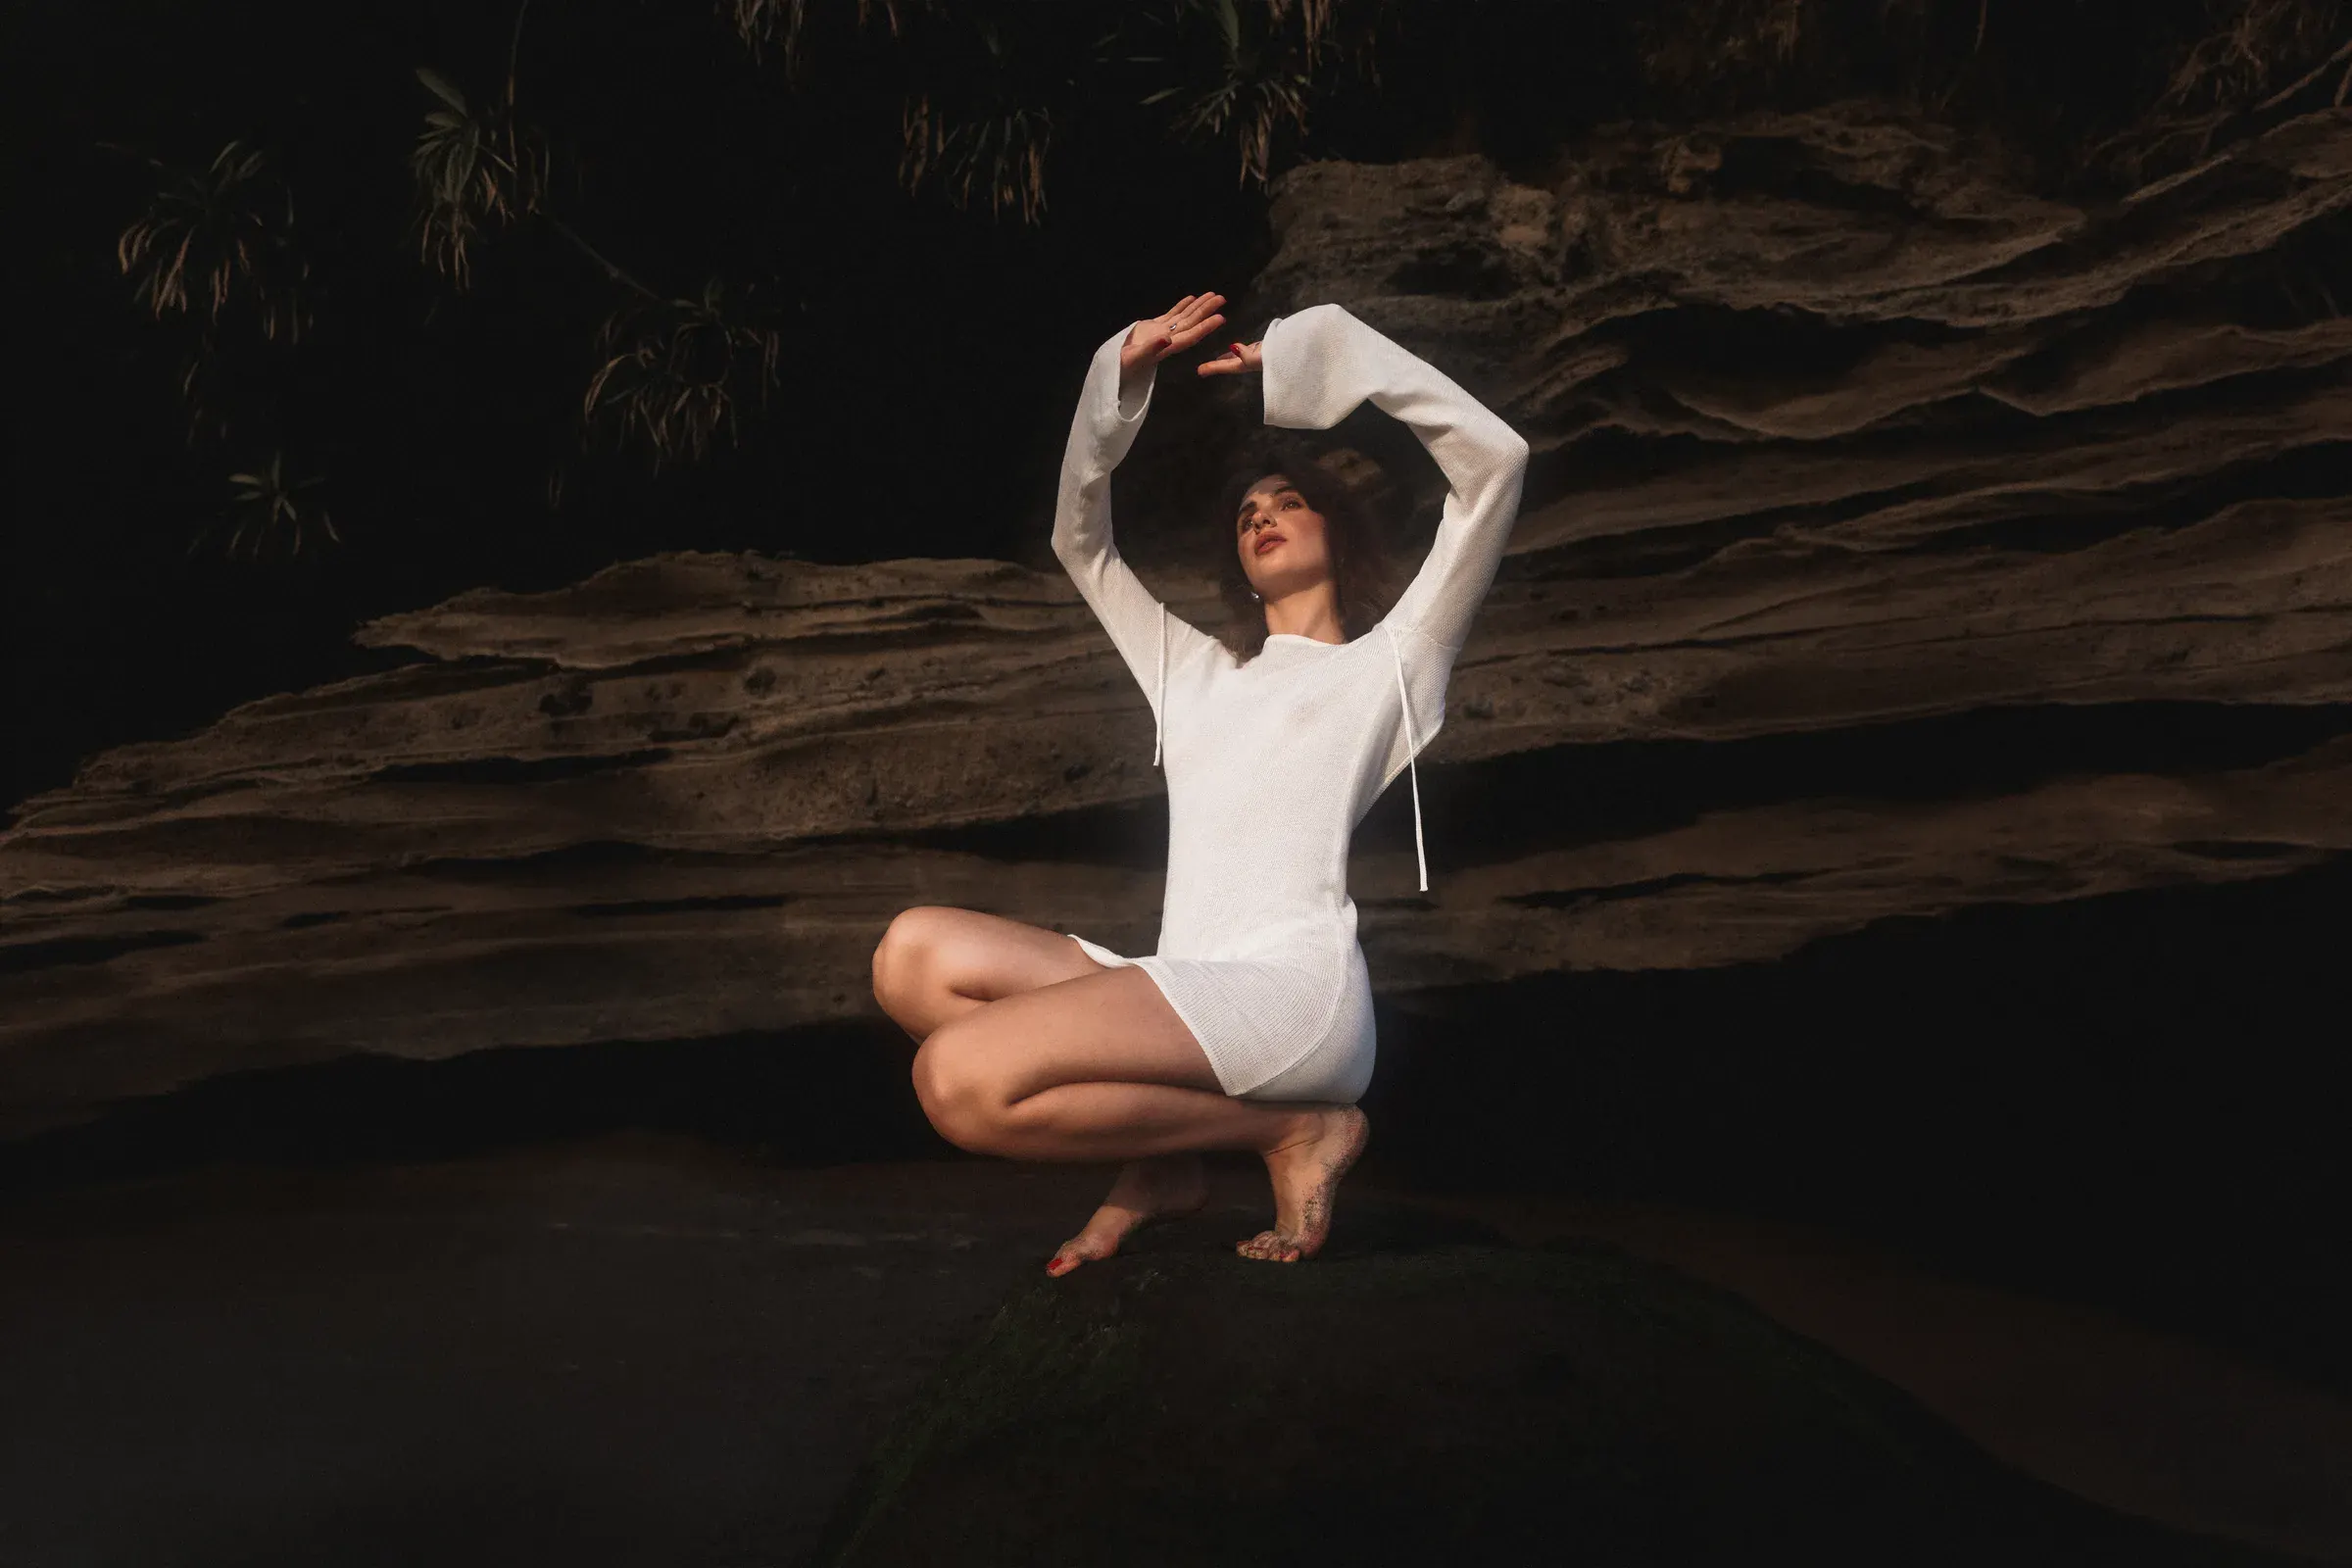
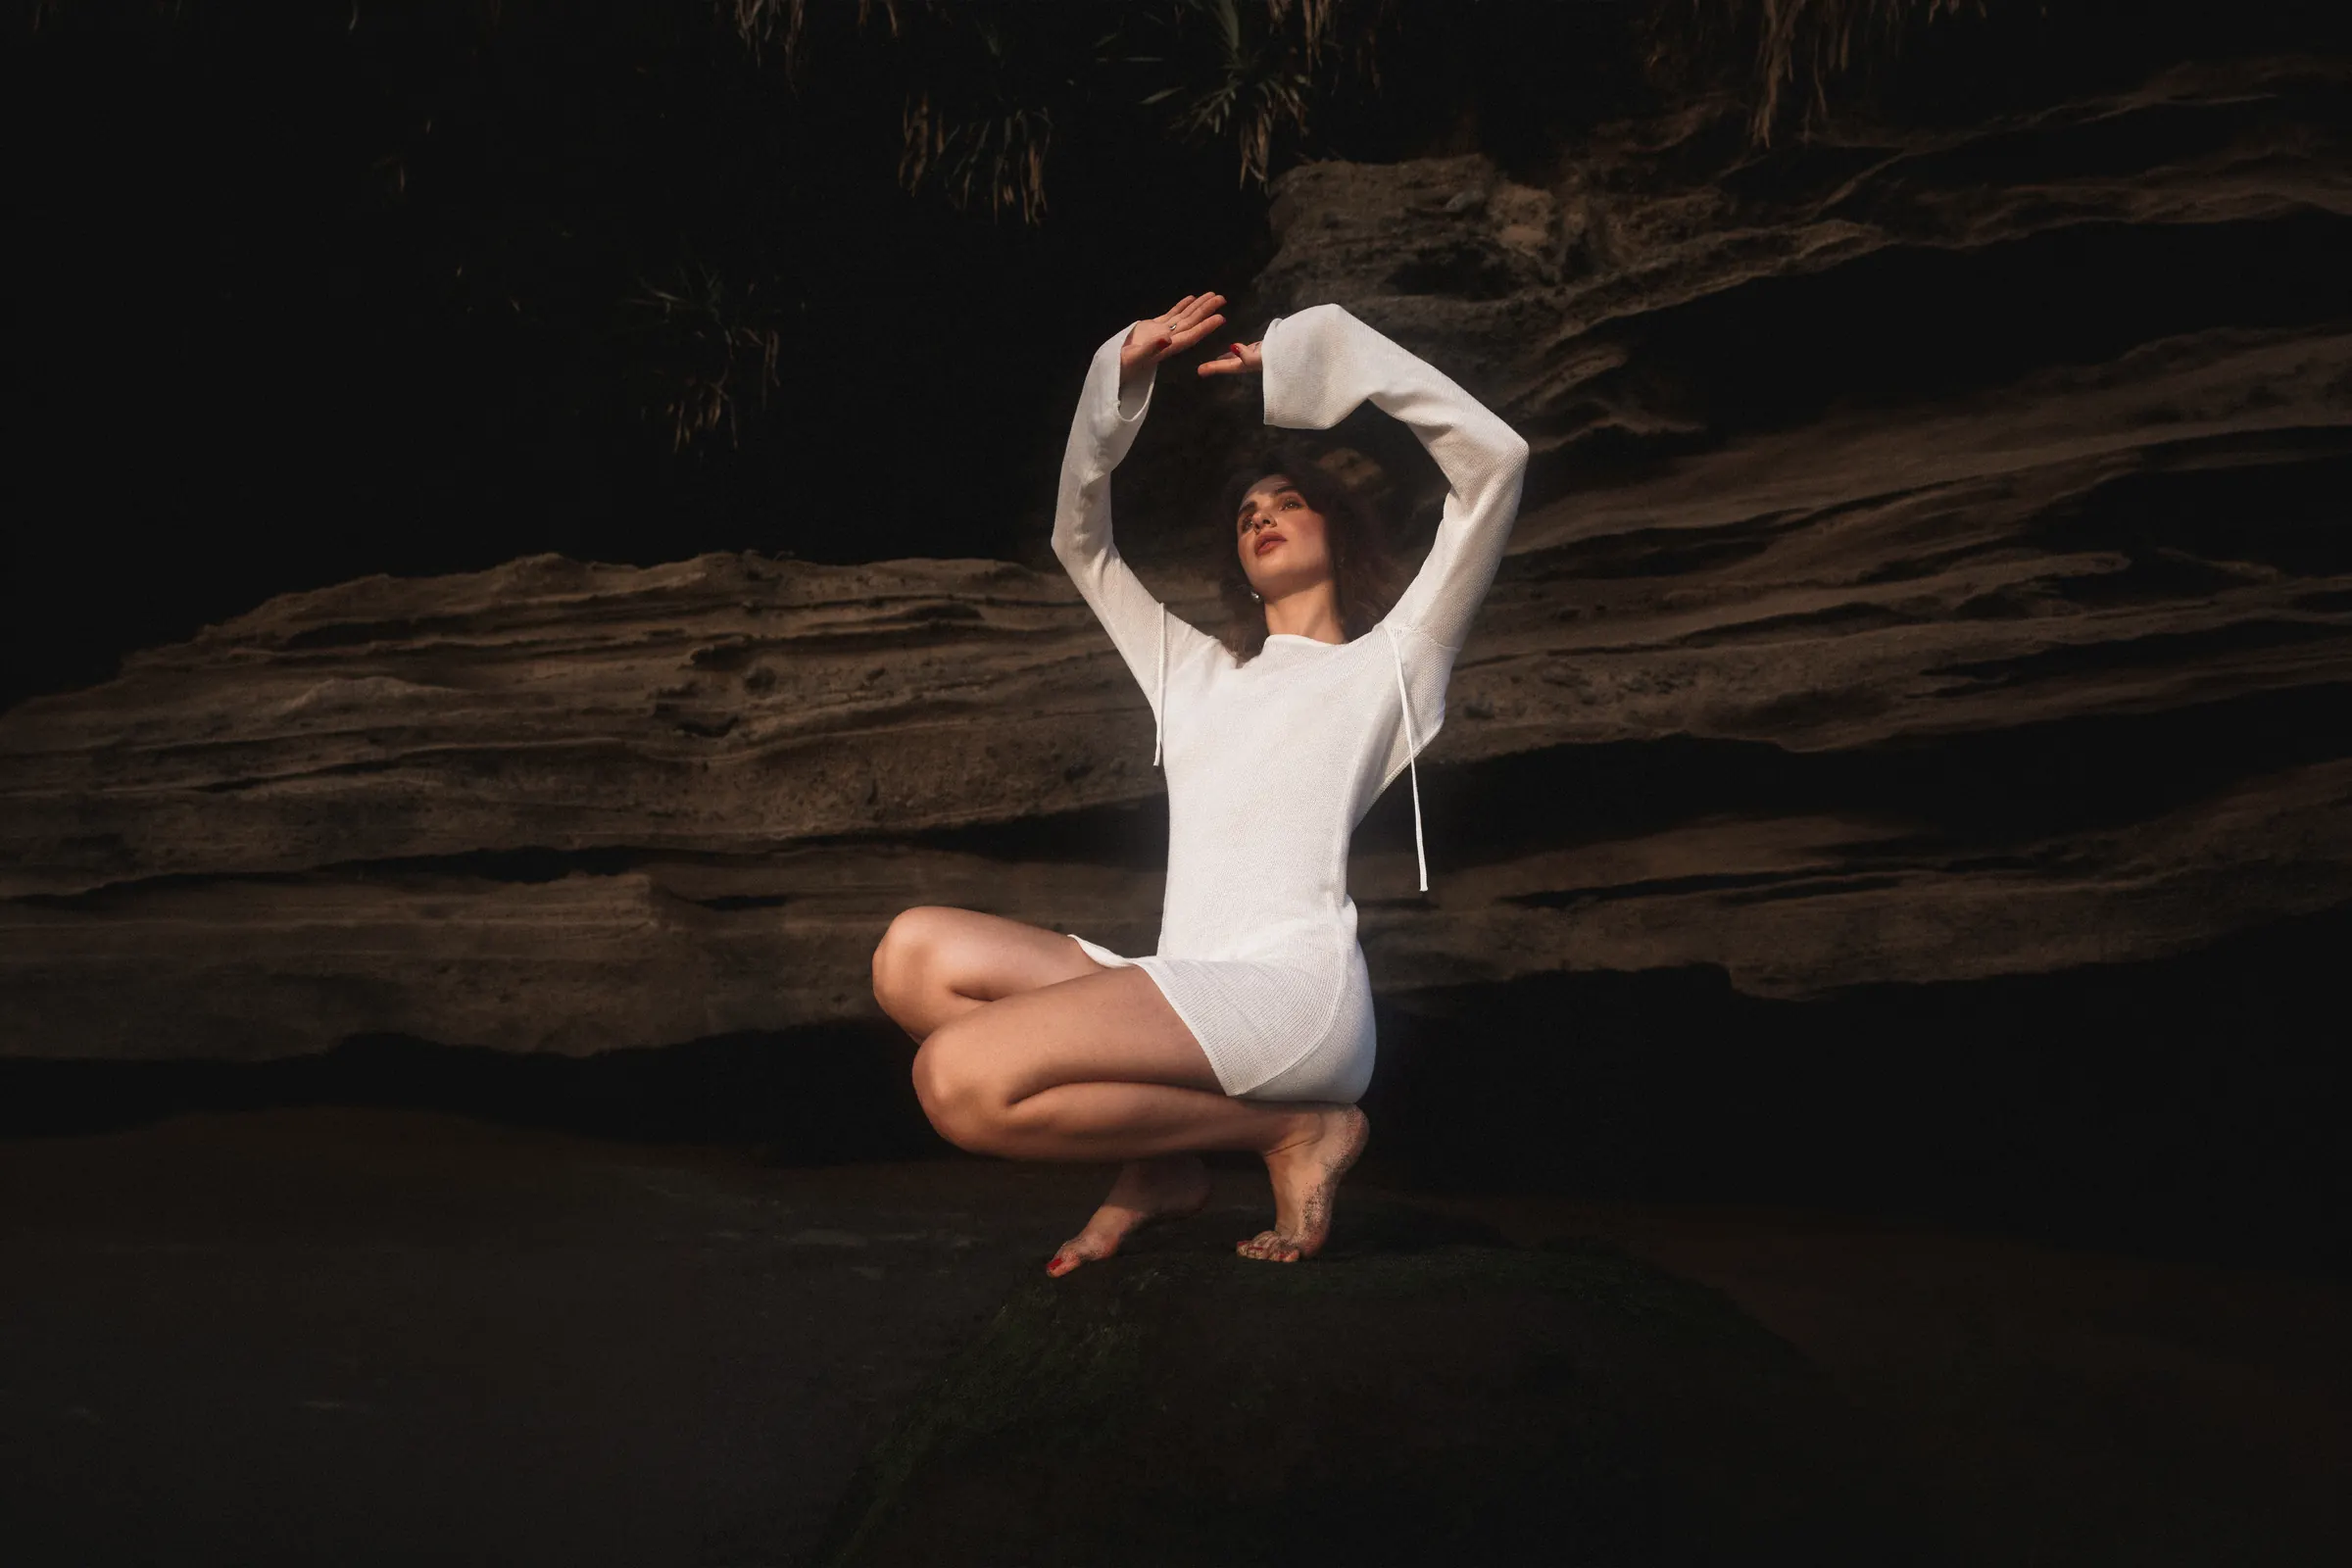
New quote photo, remove image gradients, match contacts background, update prices
- "Кожне слово": new photo version, no gradients
- Trainings and contacts photos: no gradient masks
- Contacts: background matched to the photo wall, text column clear of the photo
- About text tweak; new prices (UA + EN)

diff --git a/src/i18n.js b/src/i18n.js
@@ -15,7 +15,7 @@ ua: {
     ['Ви ','загубили себе',' після кризи чи переїзду й не розумієте, чого хочете.'] ] },
   about: { eyebrow: 'про мене', n1: 'Яна', n2: 'Ніколенко', roles: 'Психолог, психотерапевтка, сексолог', edu: 'Освіта', eduL: 'Освіта та кваліфікація', eduT1: 'Освіта', eduT2: 'та кваліфікація', eduRange: '2015 — сьогодні', quote: 'Для мене терапія — це передусім стосунки: чесні, безпечні й без оцінок.', p: [
     'Я веду власну практику з 2022 року.',
-    'Я працюю під регулярною супервізією й сама проходжу особисту терапію. Власний терапевтичний досвід допомагає мені краще розуміти себе та інших.',
+    'Працюю під регулярною супервізією й сама проходжу особисту терапію. Власний терапевтичний досвід допомагає мені краще розуміти себе та інших.',
     'Мені важливо створити простір, де можна бути собою: відчувати розгубленість, злість, сум, мовчати й не боятися осуду. Саме з цього й починаються зміни.' ],
     eduList: [
     ['2024–2026','Сексологія','Український інститут психотерапії узалежнень'],
@@ -36,7 +36,7 @@ ua: {
     ['Психоаналітична терапія','жива розмова','Тут немає вправ і домашніх завдань. Наша робота — це жива розмова, де можна говорити все, що спадає на думку: думки, емоції, сумніви, роздратування. У цьому вільному плині асоціацій поступово проявляється те, що було приховане, і з\'являється глибше розуміння себе.'],
     ['Сексологічні запити','психоаналіз + системно-сімейний підхід','Тут я поєдную психоаналіз із системно-сімейним підходом. Формат більш структурований: можуть бути конкретні завдання, які допомагають рухатися до результату з урахуванням ваших стосунків і контексту життя.'] ] },
   sv: { eyebrow: 'послуги та вартість', h1: 'Послуги', h2: 'та вартість', cur: 'грн', btn: 'Записатися', durL: 'Тривалість', fmtL: 'Формат', freqL: 'Частота', min: 'хв', fmt: 'онлайн', freq: 'раз на тиждень', note: 'Перша консультація платна: це знайомство й формулювання запиту.', rulesT: 'Правила роботи', rules: '[ПРАВИЛА БУДУТЬ ДОДАНІ]', list: [
-    ['Індивідуальна психотерапія','1500','50'], ['Сексологічне консультування','1500','60'], ['Парне консультування','2000','120'] ] },
+    ['Індивідуальна психотерапія','1700','50'], ['Сексологічне консультування','1800','60'], ['Парне консультування','3000','120'] ] },
   st: { eyebrow: '05 — як розпочати', h1: 'Як', h2: 'розпочати', lead: 'Мушля — символ того, як поступово, виток за витком, формується внутрішня опора.', tz: 'Працюю за часом [ЧАСОВИЙ ПОЯС], підлаштуємо зустріч під вашу локацію.', list: [
     ['Запис','Залиште свої контактні дані, щоб я могла з вами зв\'язатися.'],
     ['Підтвердження','Я зв\'яжуся з вами, ми узгодимо зручний час зустрічі, після чого ви отримаєте реквізити для передоплати.'],
@@ -98,7 +98,7 @@ en: {
     ['Psychoanalytic therapy','a living conversation','There are no exercises or homework here. Our work is a living conversation where you can say whatever comes to mind: thoughts, emotions, doubts, irritation. In this free flow of associations, what was hidden gradually surfaces, and a deeper understanding of yourself appears.'],
     ['Sexology requests','psychoanalysis + systemic family approach','Here I combine psychoanalysis with a systemic family approach. The format is more structured: there may be specific tasks that help you move towards a result, taking into account your relationships and life context.'] ] },
   sv: { eyebrow: 'services & fees', h1: 'Services', h2: '& fees', cur: 'UAH', btn: 'Book', durL: 'Duration', fmtL: 'Format', freqL: 'Frequency', min: 'min', fmt: 'online', freq: 'once a week', note: 'The first consultation is paid: it is a time to get to know each other and shape your request.', rulesT: 'Terms of work', rules: '[TERMS TO BE ADDED]', list: [
-    ['Individual psychotherapy','1500','50'], ['Sexology consultation','1500','60'], ['Couples counselling','2000','120'] ] },
+    ['Individual psychotherapy','1700','50'], ['Sexology consultation','1800','60'], ['Couples counselling','3000','120'] ] },
   st: { eyebrow: '05 — getting started', h1: 'How to', h2: 'begin', lead: 'The shell is a symbol of how inner support grows gradually — turn by turn.', tz: 'I work in [TIME ZONE] — we’ll find a time that suits your location.', list: [
     ['Reach out','Message me in whatever way suits you, and we’ll agree on a time.'],
     ['Confirmation','You’ll receive payment details and the terms of work.'],

diff --git a/src/styles/global.css b/src/styles/global.css
@@ -607,8 +607,6 @@ img { max-width: 100%; }
   background: var(--bg);
   height: 110vh;
   overflow: hidden;
-  -webkit-mask-image: linear-gradient(to bottom, rgba(0,0,0,0) 0.0%, rgba(0,0,0,0.016) 0.9%, rgba(0,0,0,0.104) 1.8%, rgba(0,0,0,0.275) 2.6%, rgba(0,0,0,0.5) 3.5%, rgba(0,0,0,0.725) 4.4%, rgba(0,0,0,0.896) 5.2%, rgba(0,0,0,0.984) 6.1%, rgba(0,0,0,1) 7.0%, #000 100%);
-  mask-image: linear-gradient(to bottom, rgba(0,0,0,0) 0.0%, rgba(0,0,0,0.016) 0.9%, rgba(0,0,0,0.104) 1.8%, rgba(0,0,0,0.275) 2.6%, rgba(0,0,0,0.5) 3.5%, rgba(0,0,0,0.725) 4.4%, rgba(0,0,0,0.896) 5.2%, rgba(0,0,0,0.984) 6.1%, rgba(0,0,0,1) 7.0%, #000 100%);
 }
 .quote__img {
   position: absolute;
@@ -627,7 +625,7 @@ img { max-width: 100%; }
   position: absolute;
   inset: 0;
   pointer-events: none;
-  background: linear-gradient(to bottom, rgba(98,90,52,0) 70%, rgba(98,90,52,.04) 85%, rgba(98,90,52,.06) 95%, rgba(200,194,170,.35) 97.5%, rgba(240,236,228,.85) 99.2%, #FAF6F0 100%);
+  display: none;
 }
 .quote__text { position: absolute; left: 0; right: 0; bottom: 6%; padding: 0 var(--gutter); text-align: center; color: #fff; }
 .quote__text h2 {
@@ -1039,8 +1037,6 @@ img { max-width: 100%; }
   position: relative;
   min-height: 480px;
   margin: clamp(20px, 2.4vw, 32px) 0;
-  -webkit-mask-image: radial-gradient(75% 72% at 52% 50%, #000 45%, transparent 100%);
-  mask-image: radial-gradient(75% 72% at 52% 50%, #000 45%, transparent 100%);
 }
 .trainings__img img {
   position: absolute;
@@ -1060,7 +1056,8 @@ img { max-width: 100%; }
 .contacts {
   position: relative;
   overflow: hidden;
-  background: linear-gradient(180deg, #FAF6F0 0%, #F3ECE2 55%, #E6DACB 100%);
+  /* matched to the wall colour along the photo's left edge, so text + photo read as one surface */
+  background: linear-gradient(180deg, #F1EDE2 0%, #EFEAE0 35%, #EBE5D9 55%, #E5DFD4 75%, #DED9D0 88%, #DAD5CD 100%);
   min-height: min(100vh, 900px);
   display: flex;
   flex-direction: column;
@@ -1075,9 +1072,6 @@ img { max-width: 100%; }
   width: 60%;
   height: 100%;
   pointer-events: none;
-  /* soft fade on the left only; no bottom fade */
-  -webkit-mask-image: linear-gradient(to right, transparent 0%, #000 38%);
-  mask-image: linear-gradient(to right, transparent 0%, #000 38%);
 }
 .contacts__photo img {
   width: 100%;
@@ -1086,10 +1080,11 @@ img { max-width: 100%; }
   object-position: 42% 28%;
   display: block;
   filter: saturate(.82) sepia(.14) contrast(.96);
-  mix-blend-mode: multiply;
+  /* no blend: the section background is matched to the photo instead */
 }
 .contacts__inner { position: relative; width: 100%; }
-.contacts__text { min-width: 0; max-width: 540px; }
+/* text column ends 40px before the photo, which starts at 40vw */
+.contacts__text { min-width: 0; max-width: min(540px, calc(40vw - max(var(--gutter), (100vw - 1180px) / 2) - 40px)); }
 .contacts__title { margin: 0; font-family: var(--serif); font-weight: 300; line-height: .95; }
 .contacts__title span { display: block; font-size: clamp(46px, 6.4vw, 96px); }
 .contacts__title .contacts__title-it { font-style: italic; color: var(--brown); }
@@ -1166,7 +1161,6 @@ img { max-width: 100%; }
   margin: clamp(28px, 3vw, 40px) 0 0;
   padding-top: clamp(20px, 2.2vw, 28px);
   border-top: 1px solid var(--line);
-  max-width: 400px;
   font-size: 11px;
   letter-spacing: .2em;
   text-transform: uppercase;
@@ -1280,19 +1274,16 @@ img { max-width: 100%; }
   .trainings__p { white-space: normal; }
   .trainings__img { min-height: 300px; }
 
-  .contacts { min-height: 0; padding: 0 22px 72px; }
+  .contacts { min-height: 0; padding: 0 22px 72px; background: linear-gradient(180deg, #FAF6F0 0%, #F3ECE2 55%, #E6DACB 100%); }
   .contacts__photo {
     position: relative;
     width: calc(100% + 44px);
     height: 62vh;
     margin: 0 -22px 8px;
-    -webkit-mask-image: none;
-    mask-image: none;
   }
   .contacts__photo img { object-position: 50% 22%; }
   .contacts__text { max-width: none; }
   .btn-dark { width: 100%; }
-  .contacts__meta { max-width: none; }
   .book-form { padding: 22px 20px; }
 
   .footer { padding-bottom: 110px; }
